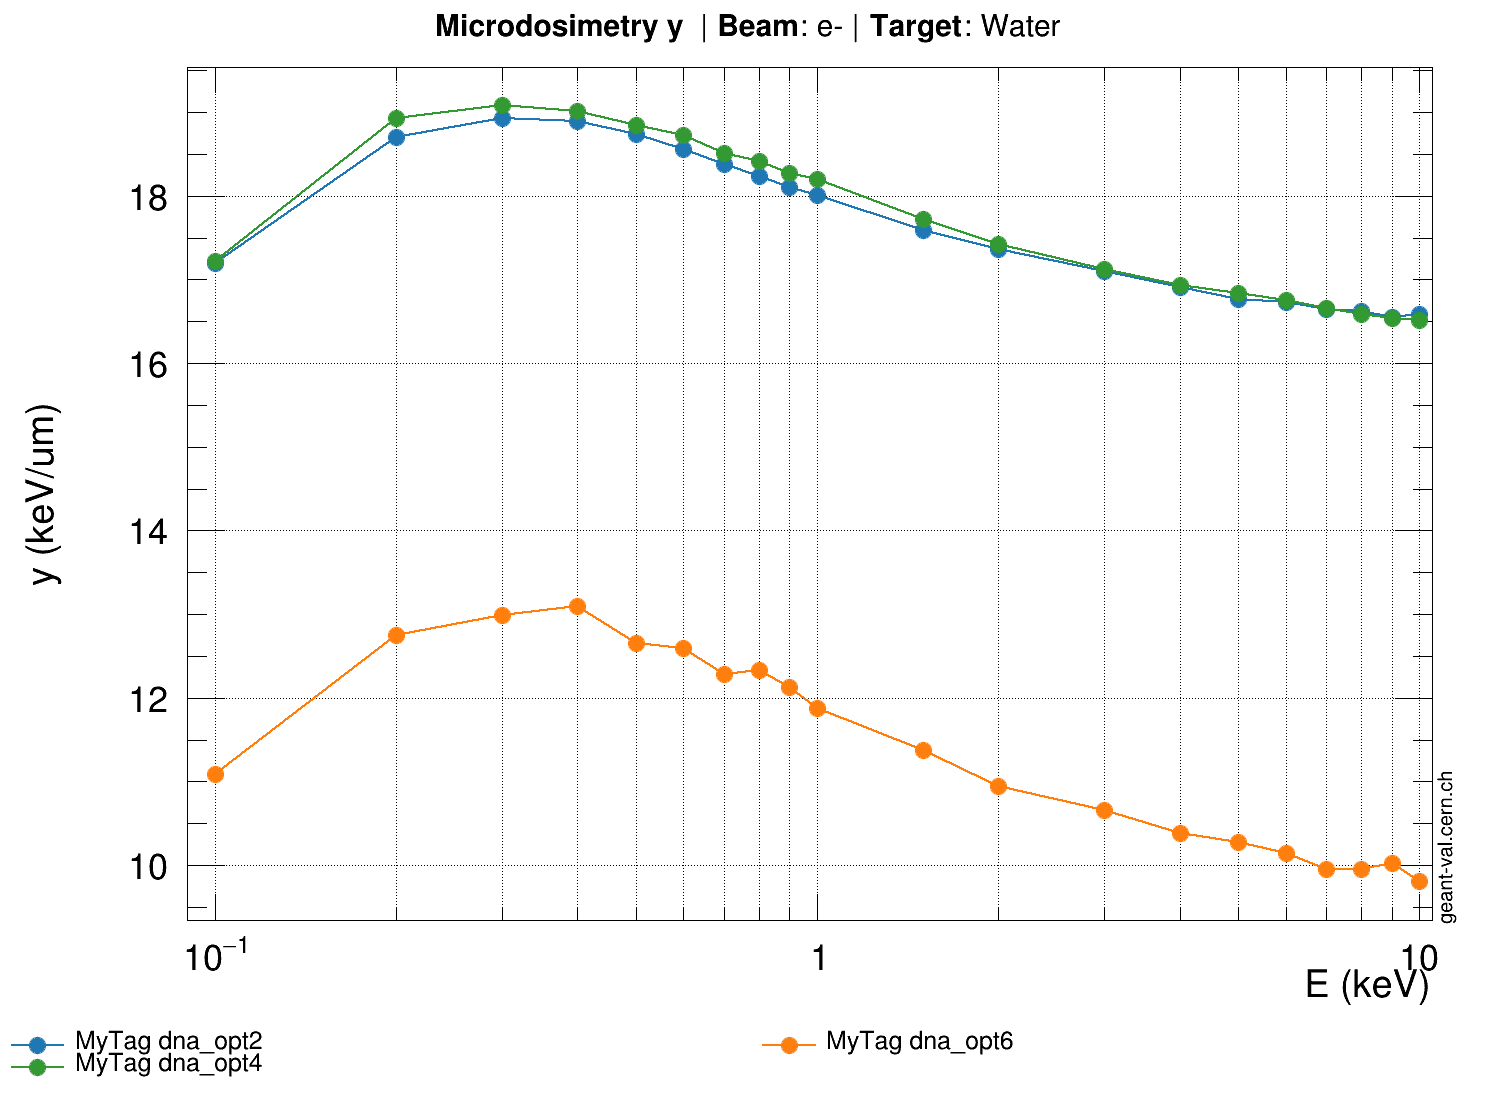
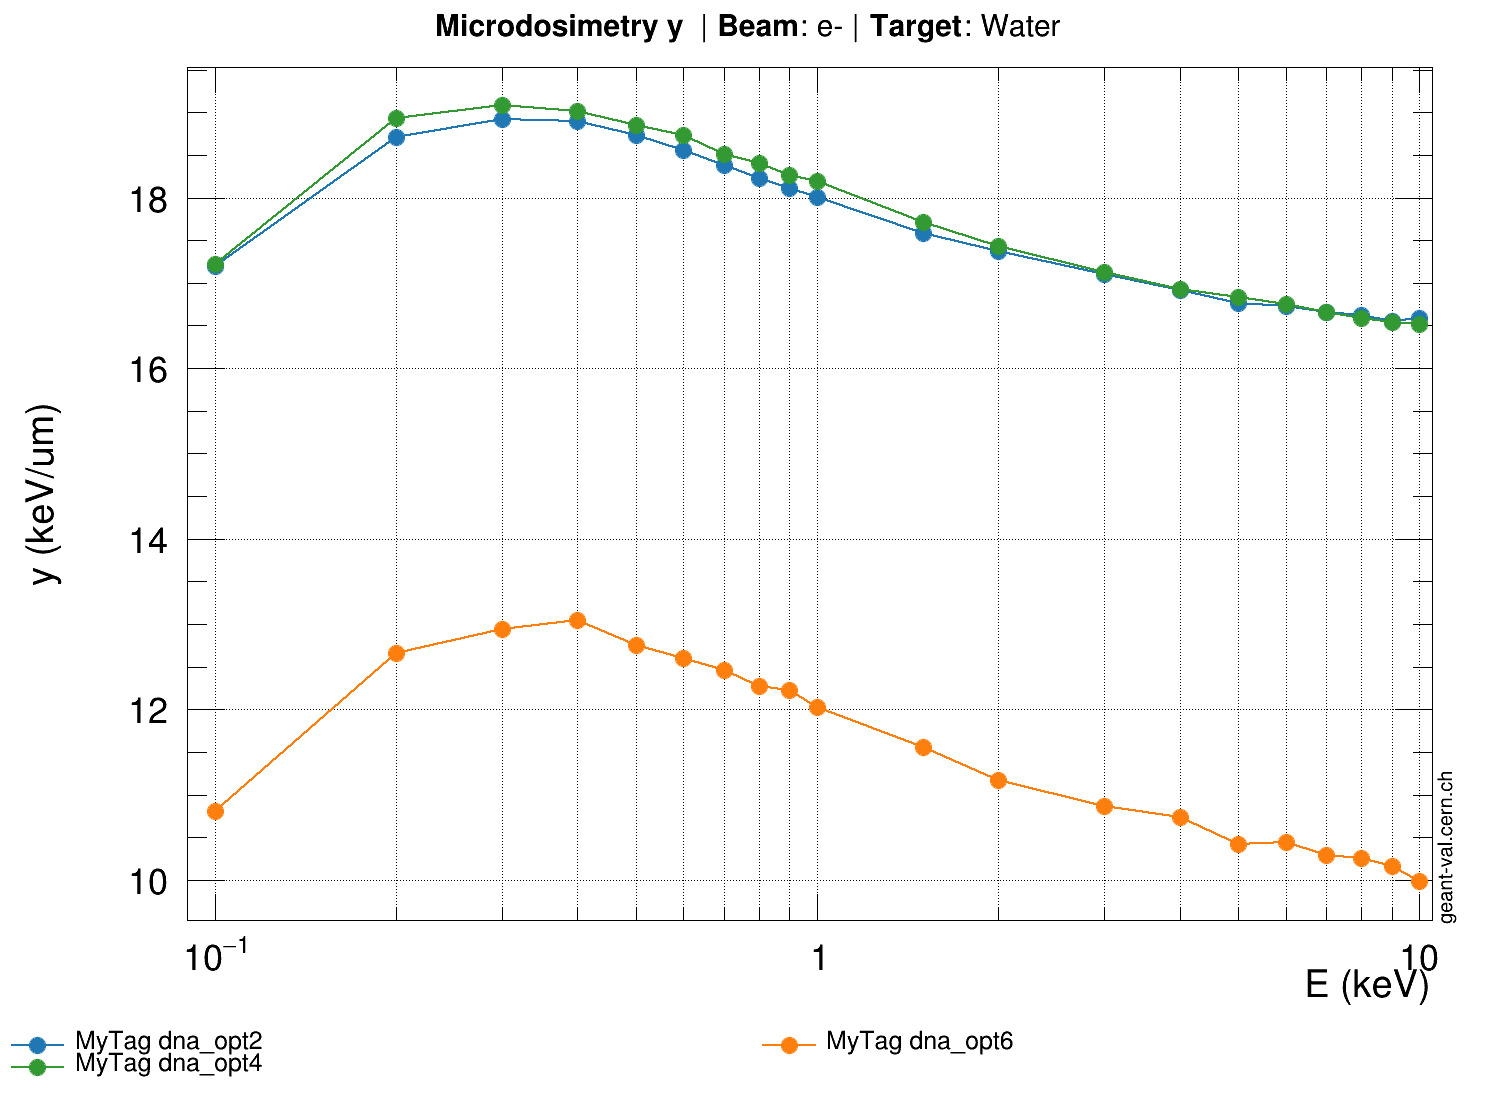
microyz/params.conf/MyTag : mer. mai 17 17:31:48 CEST 2023

diff --git a/assets/OUTPUTJSON/geant4/MyTag/x86_64/microyz/params.conf.c b/assets/OUTPUTJSON/geant4/MyTag/x86_64/microyz/params.conf.c
@@ -3166,3 +3166,291 @@ double gvp_id-1_yerrors[20] = {
   0,
   0
 };
+// Tool:               GEANT4
+// Version:            MyTag
+// Model:              dna_opt2
+// Observable:         microdosimetry y
+// Target:             Water
+// Beam Particle:      e-
+// Secondary Particle: None
+
+double gvp_id-1_x[20] = {
+  0.1,
+  0.2,
+  0.3,
+  0.4,
+  0.5,
+  0.6,
+  0.7,
+  0.8,
+  0.9,
+  1,
+  1.5,
+  2,
+  3,
+  4,
+  5,
+  6,
+  7,
+  8,
+  9,
+  10
+};
+double gvp_id-1_y[20] = {
+  17.2018,
+  18.7055,
+  18.927,
+  18.8975,
+  18.7372,
+  18.5591,
+  18.3811,
+  18.2324,
+  18.1108,
+  18.0045,
+  17.5884,
+  17.3686,
+  17.0987,
+  16.911,
+  16.7688,
+  16.7289,
+  16.6529,
+  16.6252,
+  16.5539,
+  16.591
+};
+double gvp_id-1_xerrors[20] = {
+  0,
+  0,
+  0,
+  0,
+  0,
+  0,
+  0,
+  0,
+  0,
+  0,
+  0,
+  0,
+  0,
+  0,
+  0,
+  0,
+  0,
+  0,
+  0,
+  0
+};
+double gvp_id-1_yerrors[20] = {
+  0,
+  0,
+  0,
+  0,
+  0,
+  0,
+  0,
+  0,
+  0,
+  0,
+  0,
+  0,
+  0,
+  0,
+  0,
+  0,
+  0,
+  0,
+  0,
+  0
+};
+// Tool:               GEANT4
+// Version:            MyTag
+// Model:              dna_opt6
+// Observable:         microdosimetry y
+// Target:             Water
+// Beam Particle:      e-
+// Secondary Particle: None
+
+double gvp_id-1_x[20] = {
+  0.1,
+  0.2,
+  0.3,
+  0.4,
+  0.5,
+  0.6,
+  0.7,
+  0.8,
+  0.9,
+  1,
+  1.5,
+  2,
+  3,
+  4,
+  5,
+  6,
+  7,
+  8,
+  9,
+  10
+};
+double gvp_id-1_y[20] = {
+  10.8084,
+  12.6599,
+  12.9382,
+  13.0413,
+  12.7486,
+  12.6069,
+  12.4654,
+  12.2716,
+  12.223,
+  12.0296,
+  11.5593,
+  11.1672,
+  10.8642,
+  10.7327,
+  10.4219,
+  10.4389,
+  10.2891,
+  10.2597,
+  10.1621,
+  9.98646
+};
+double gvp_id-1_xerrors[20] = {
+  0,
+  0,
+  0,
+  0,
+  0,
+  0,
+  0,
+  0,
+  0,
+  0,
+  0,
+  0,
+  0,
+  0,
+  0,
+  0,
+  0,
+  0,
+  0,
+  0
+};
+double gvp_id-1_yerrors[20] = {
+  0,
+  0,
+  0,
+  0,
+  0,
+  0,
+  0,
+  0,
+  0,
+  0,
+  0,
+  0,
+  0,
+  0,
+  0,
+  0,
+  0,
+  0,
+  0,
+  0
+};
+// Tool:               GEANT4
+// Version:            MyTag
+// Model:              dna_opt4
+// Observable:         microdosimetry y
+// Target:             Water
+// Beam Particle:      e-
+// Secondary Particle: None
+
+double gvp_id-1_x[20] = {
+  0.1,
+  0.2,
+  0.3,
+  0.4,
+  0.5,
+  0.6,
+  0.7,
+  0.8,
+  0.9,
+  1,
+  1.5,
+  2,
+  3,
+  4,
+  5,
+  6,
+  7,
+  8,
+  9,
+  10
+};
+double gvp_id-1_y[20] = {
+  17.2268,
+  18.9358,
+  19.0797,
+  19.0119,
+  18.8516,
+  18.728,
+  18.5142,
+  18.4108,
+  18.2703,
+  18.1976,
+  17.7183,
+  17.4286,
+  17.1242,
+  16.9315,
+  16.8372,
+  16.7572,
+  16.6564,
+  16.5824,
+  16.5414,
+  16.5212
+};
+double gvp_id-1_xerrors[20] = {
+  0,
+  0,
+  0,
+  0,
+  0,
+  0,
+  0,
+  0,
+  0,
+  0,
+  0,
+  0,
+  0,
+  0,
+  0,
+  0,
+  0,
+  0,
+  0,
+  0
+};
+double gvp_id-1_yerrors[20] = {
+  0,
+  0,
+  0,
+  0,
+  0,
+  0,
+  0,
+  0,
+  0,
+  0,
+  0,
+  0,
+  0,
+  0,
+  0,
+  0,
+  0,
+  0,
+  0,
+  0
+};
